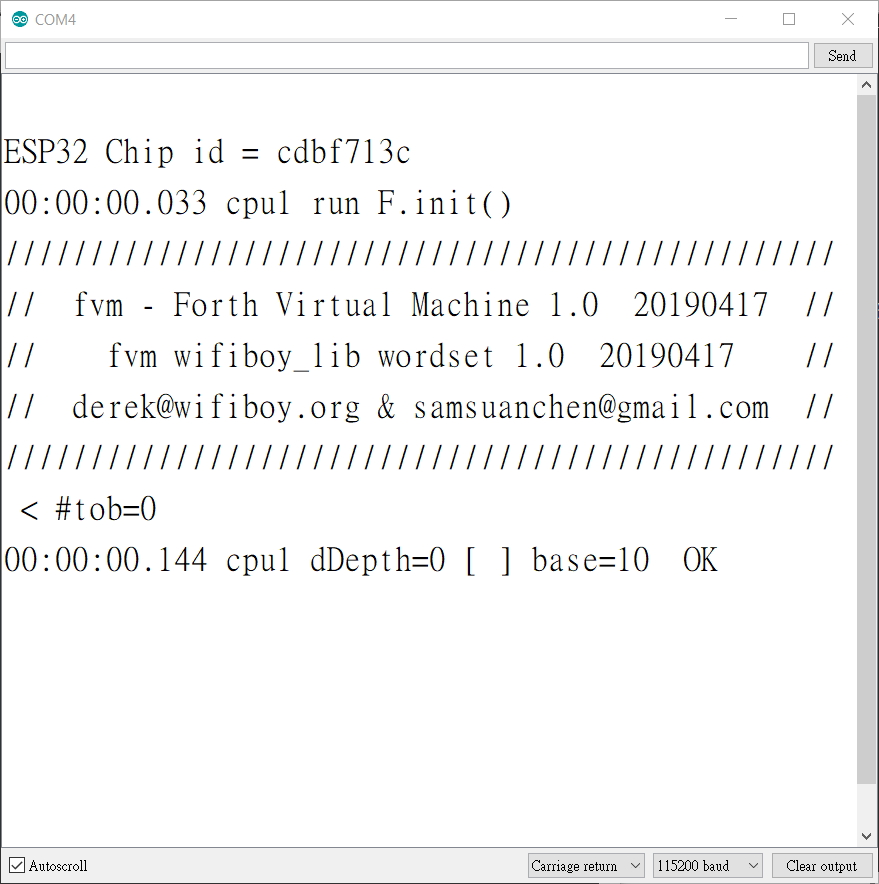
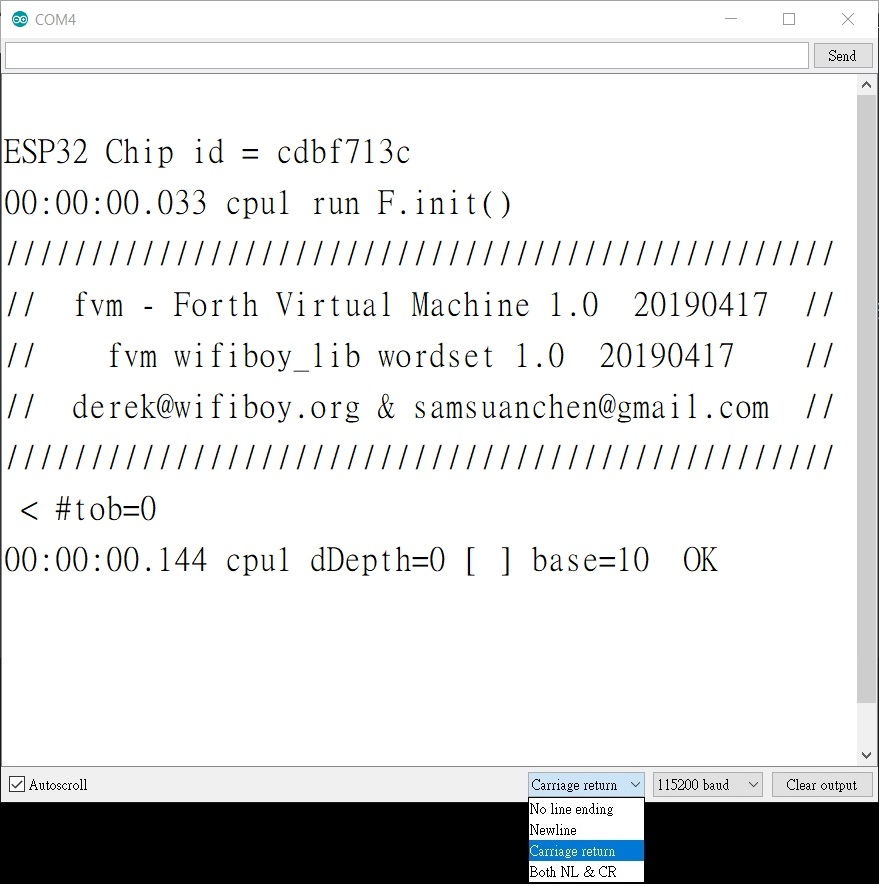
update

diff --git a/README.md b/README.md
@@ -98,7 +98,7 @@ derek@wifiboy.org & lu.albert@gmail.com & samsuanchen@gmail.com
 
 <img src="jpg/fvmSerialMonitor00.jpg" height=300> <img src="jpg/fvmSerialMonitor01.jpg" height=300>
 
-
+請注意! 首次啟動 Serial Monitor 時, 記得其下緣需要點選為「Carrige return」的選項。
 從其 input box 中, 可逐行輸入下列指令, 以關 led 燈、開屏幕背光、讓蜂鳴器發 C4 音、再多發 E4 與 A4 兩個音、讓蜂鳴器靜音、
 讓屏幕顯示一張照片 維持 1 秒鐘 然後關閉屏幕 (隨後分別詳加說明)。
 
